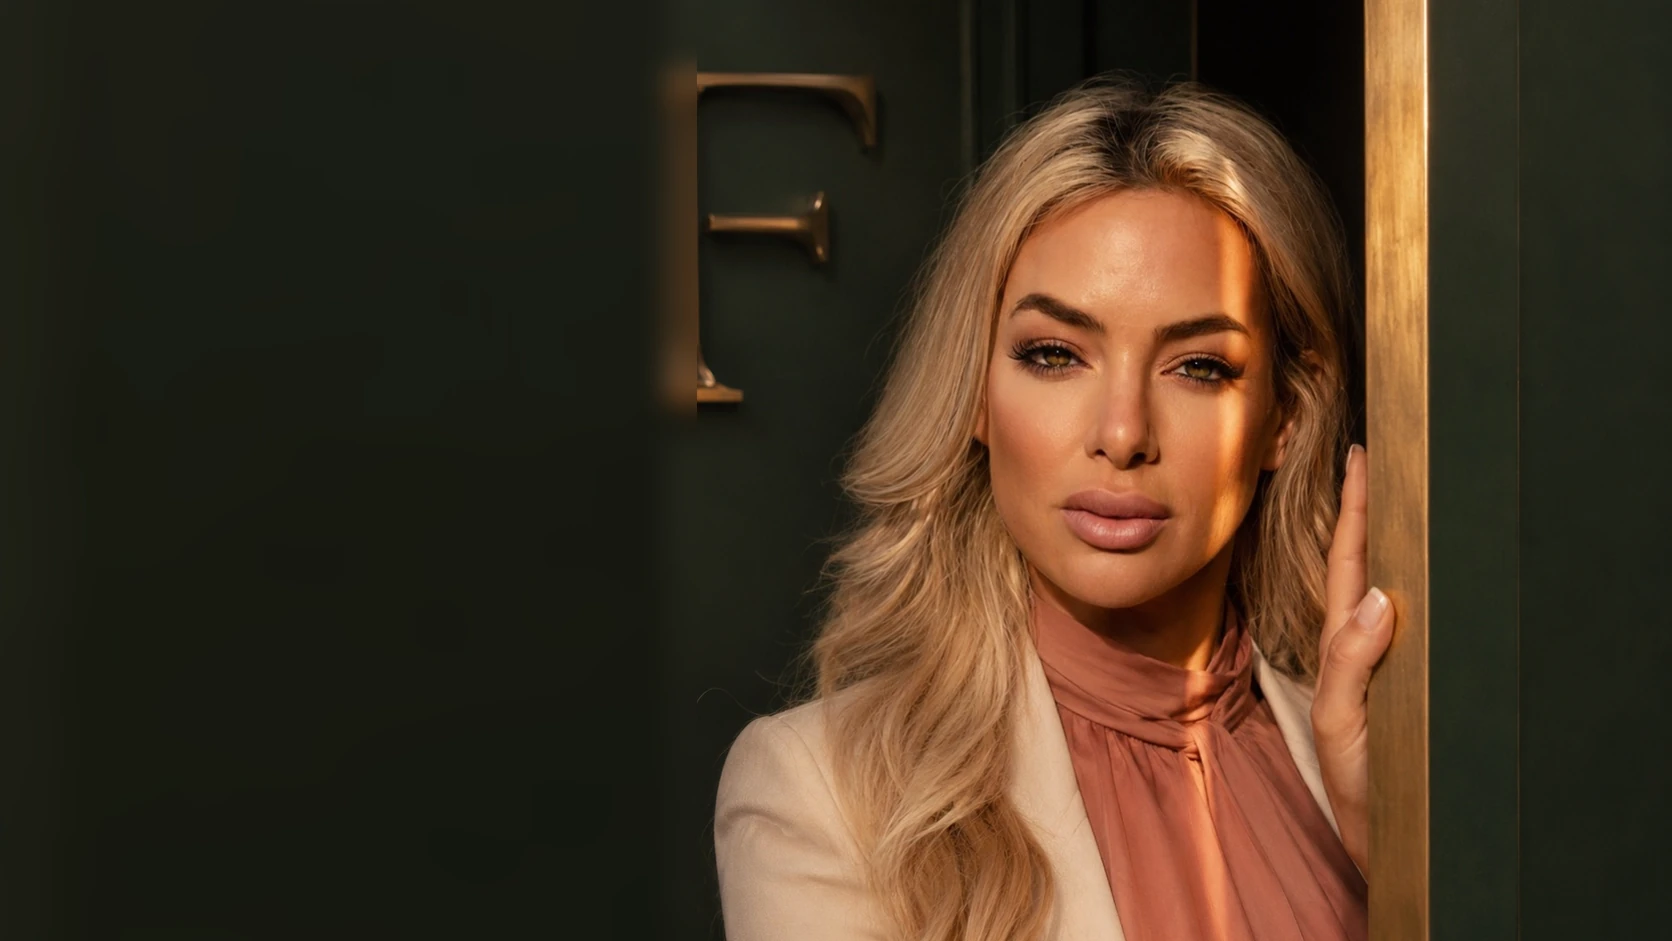
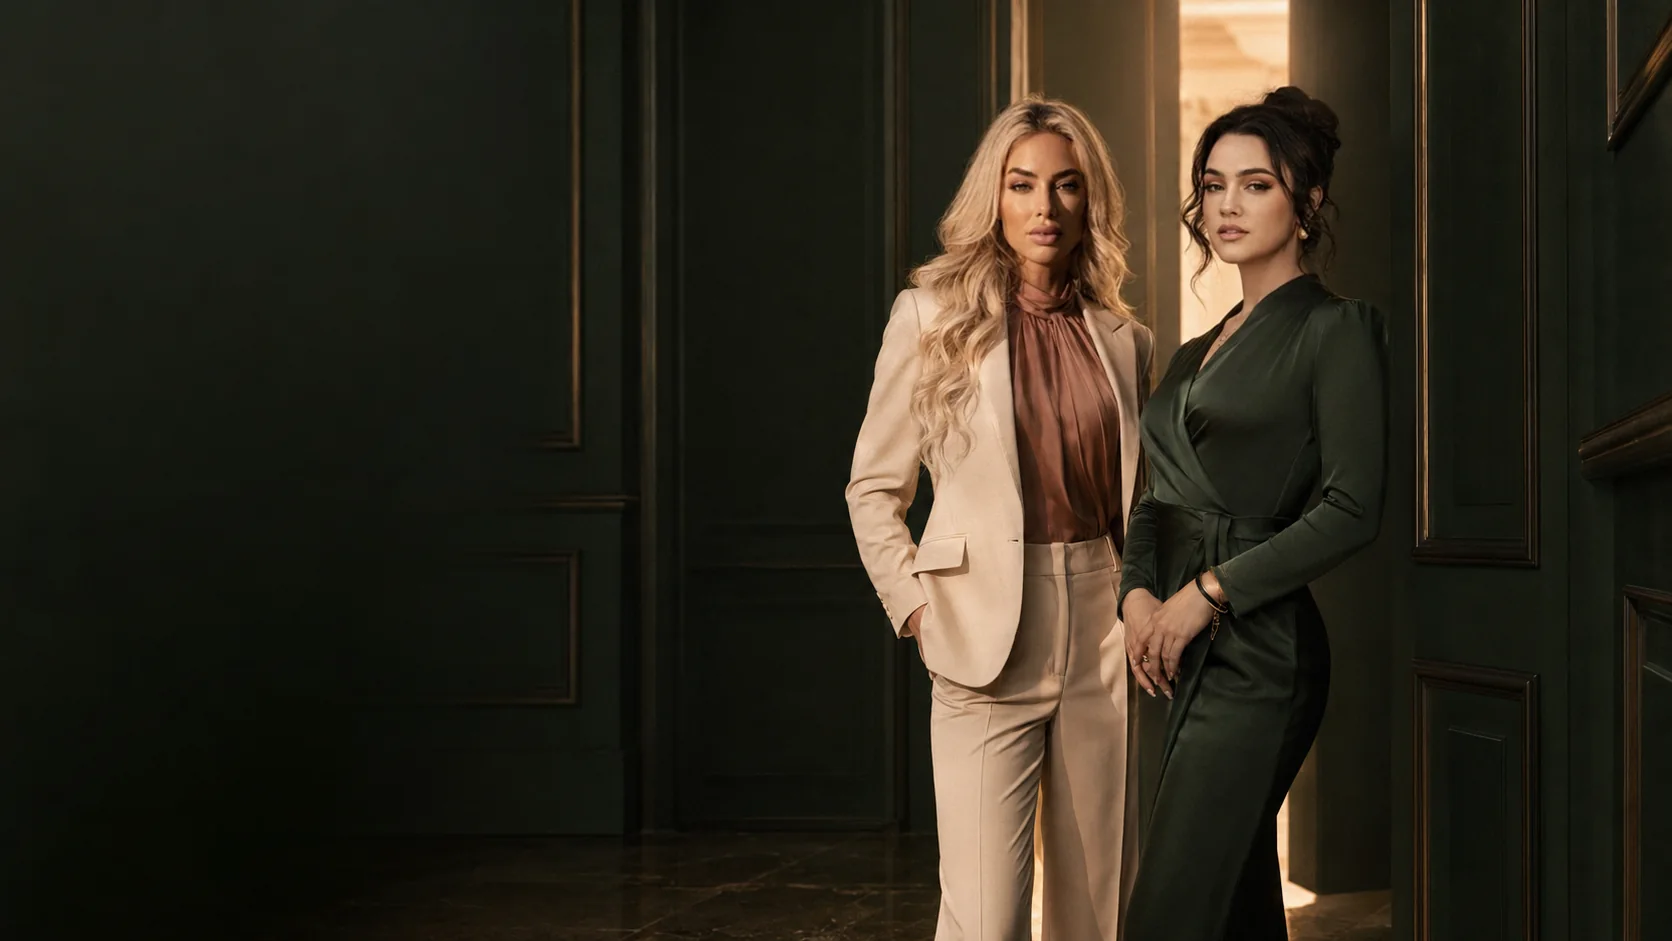
New threshold hero: two women in the hall, the door lit behind them
Replaces hero-open-door.webp (1672x941 WebP, 52 KB). The frame keeps the
layout contract the threshold was tuned for: dark left half for the
lockup, subjects on the right third, light source inside the frame. Crop
anchor moved to 68%/30% so both faces stay clear of the scrim on mobile.
Alt text rewritten for the new picture in page.tsx and brand.ts.

Claude-Session: https://claude.ai/code/session_01CRnRz1ZktUoRLs3QYs1o22

diff --git a/src/app/page.tsx b/src/app/page.tsx
@@ -195,11 +195,11 @@ export default function HomePage() {
       <section id="room-threshold" className="relative isolate min-h-[calc(100svh-4rem)] overflow-hidden">
         <Image
           src="/editorial/hero-open-door.webp"
-          alt="A woman in a cream suit at a tall green door with a brass F monogram, the room beyond lit warm."
+          alt="Two women in a dark green panelled hall, a warm-lit doorway open behind them — one in a cream suit and rust silk blouse, one in a deep green wrap dress — both looking straight into the camera."
           fill
           priority
           sizes="100vw"
-          className="object-cover object-[70%_35%]"
+          className="object-cover object-[68%_30%]"
         />
         <div
           aria-hidden

diff --git a/src/lib/brand.ts b/src/lib/brand.ts
@@ -145,7 +145,7 @@ export const FOOTER_NAV = [
  */
 export const HERO = {
   src: "/editorial/hero-open-door.webp",
-  alt: "A woman at the edge of an open door, her hand on its brass frame, warm light across her face. A brass F hangs on the deep green wall behind her.",
+  alt: "Two women in a dark green panelled hall, a warm-lit doorway open behind them — one in a cream suit and rust silk blouse, one in a deep green wrap dress — both looking straight into the camera.",
   approved: true,
   placeholderNote:
     "Placeholder image · run ./scripts/set-hero.sh to install the approved campaign photograph",
